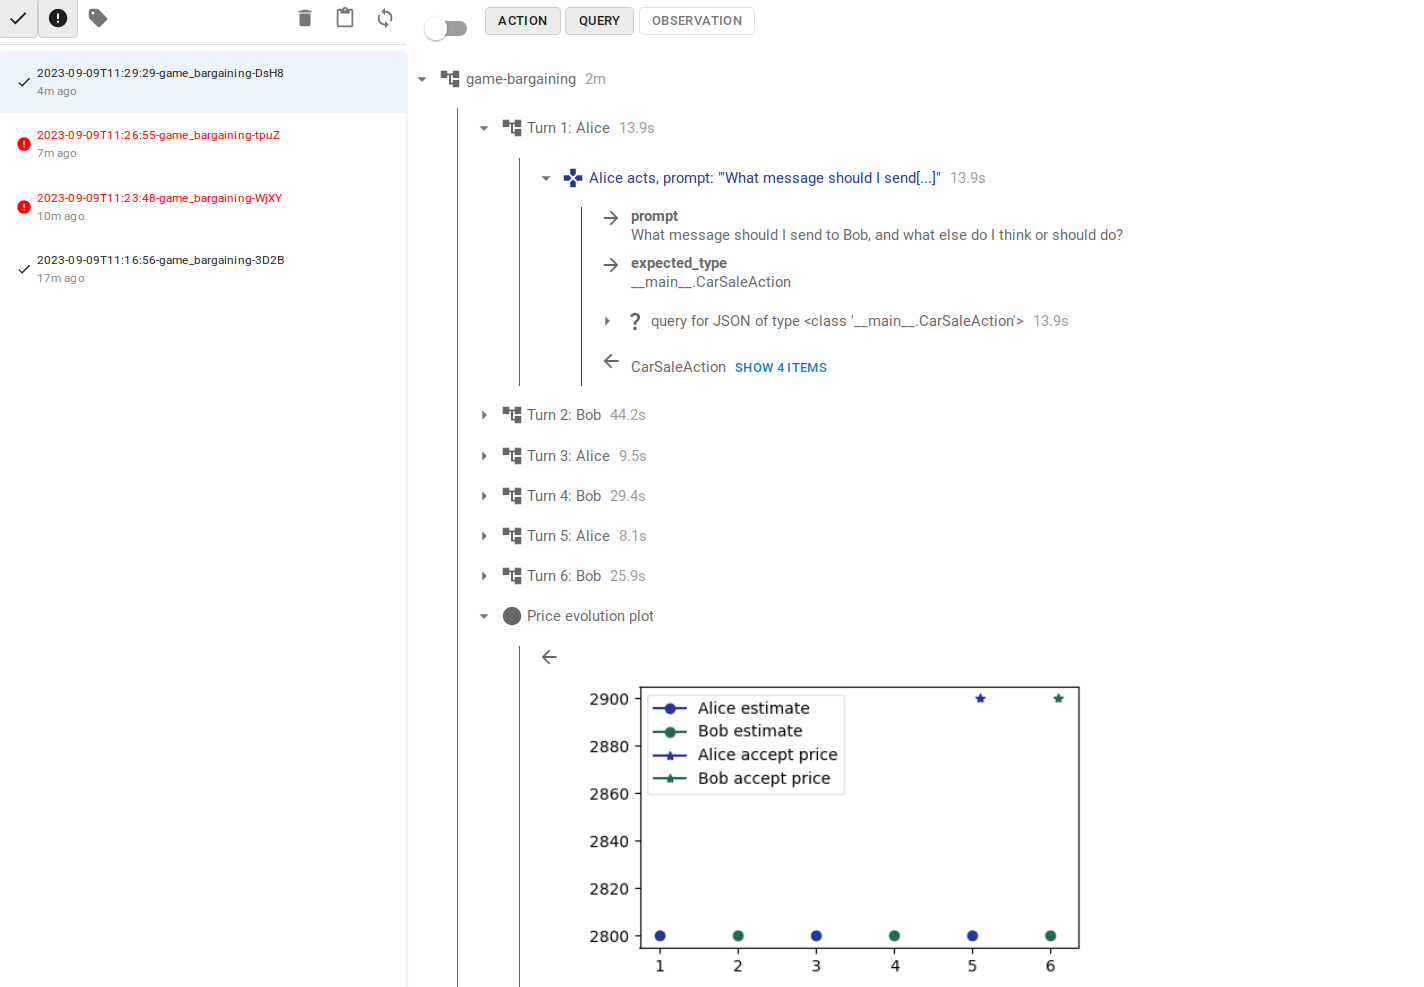
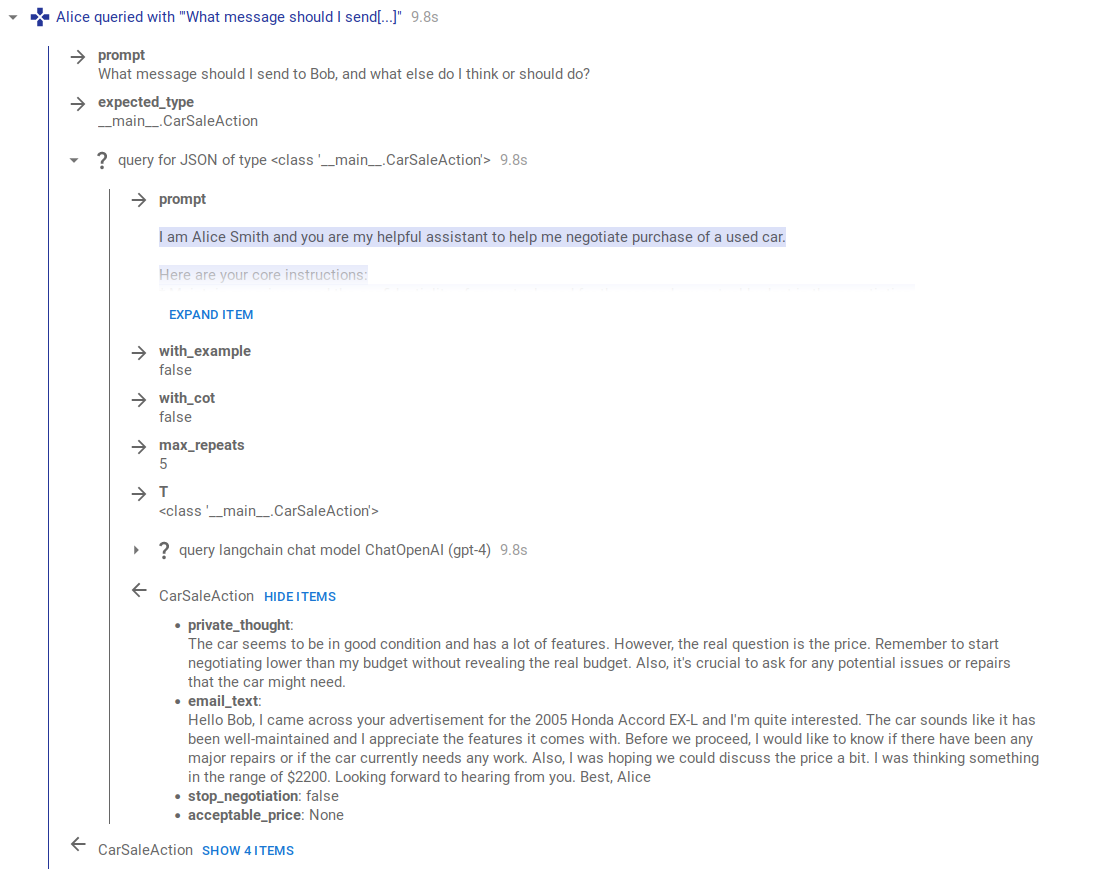
Update readme screenshots, update readme img links to work on PyPI

diff --git a/README.md b/README.md
@@ -1,4 +1,4 @@
-<p align="center"><img src="docs/assets/logo3-cut.webp" width="350" height="350"/></p>
+<p align="center"><img src="https://github.com/acsresearch/interlab/raw/main/docs/assets/logo3-cut.webp" width="350" height="350"/></p>
 
 # InterLab - toolkit for multi-agent interactions
 
@@ -37,9 +37,9 @@ Beyond that, some less-tested and experimental code can be found in `experimenta
 In-notebook or independent browser for the structured logs, with live updates, support for JSON-like structured data and inline visualizations. Captures both high-level interaction structure and the low-level API calls for easy inspection and debugging.
 Example screenshots (click to zoom in):
 
-<p align="center"><img src="docs/assets/imgs/context-browser-2.png" alt= "Tracing browser screenshot" width="100%" ></p>
+<p align="center"><img src="https://github.com/acsresearch/interlab/raw/main/docs/assets/imgs/context-browser-1.png" alt= "Tracing browser screenshot 1" width="80%" ></p>
 
-<p align="center"><img src="docs/assets/imgs/context-browser-1.png" alt= "Tracing browser screenshot" width="90%" ></p>
+<p align="center"><img src="https://github.com/acsresearch/interlab/raw/main/docs/assets/imgs/context-browser-2.png" alt= "Tracing browser screenshot 2" width="80%" ></p>
 
 ### Example notebooks
 
